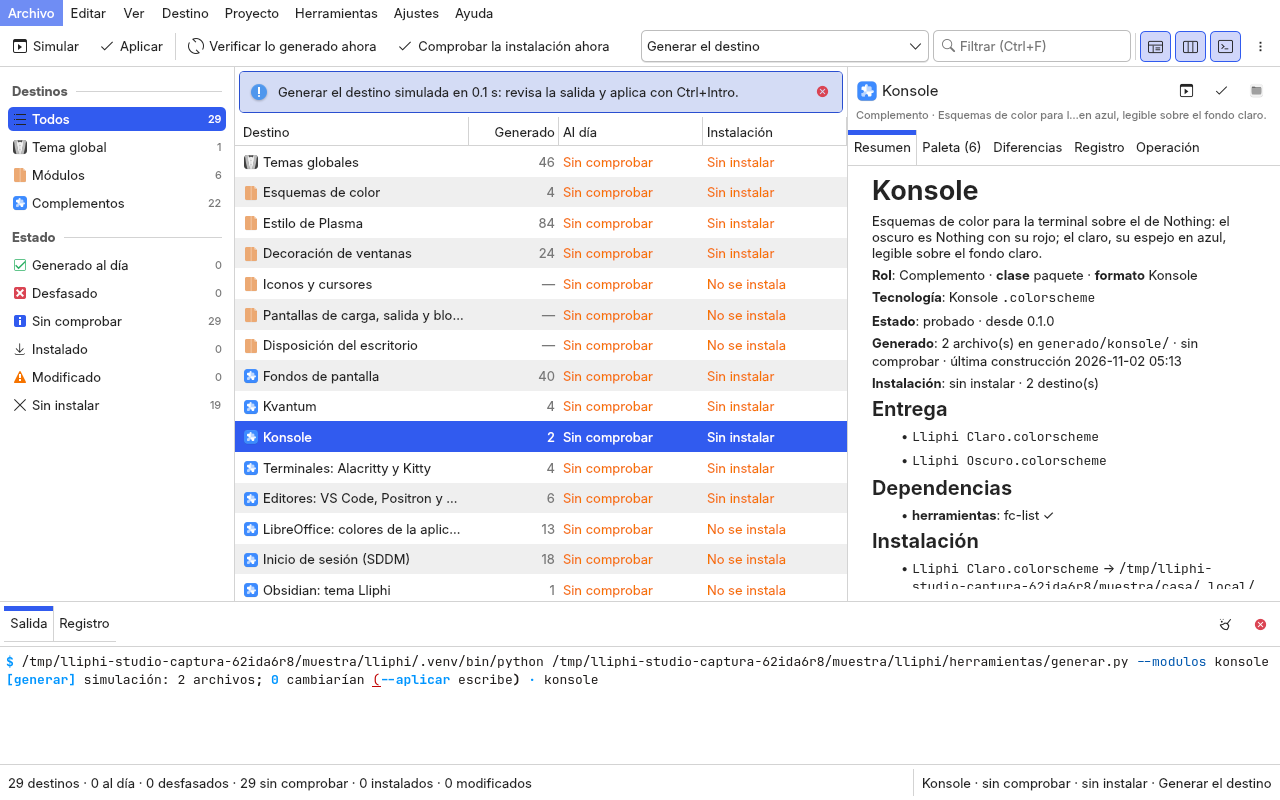
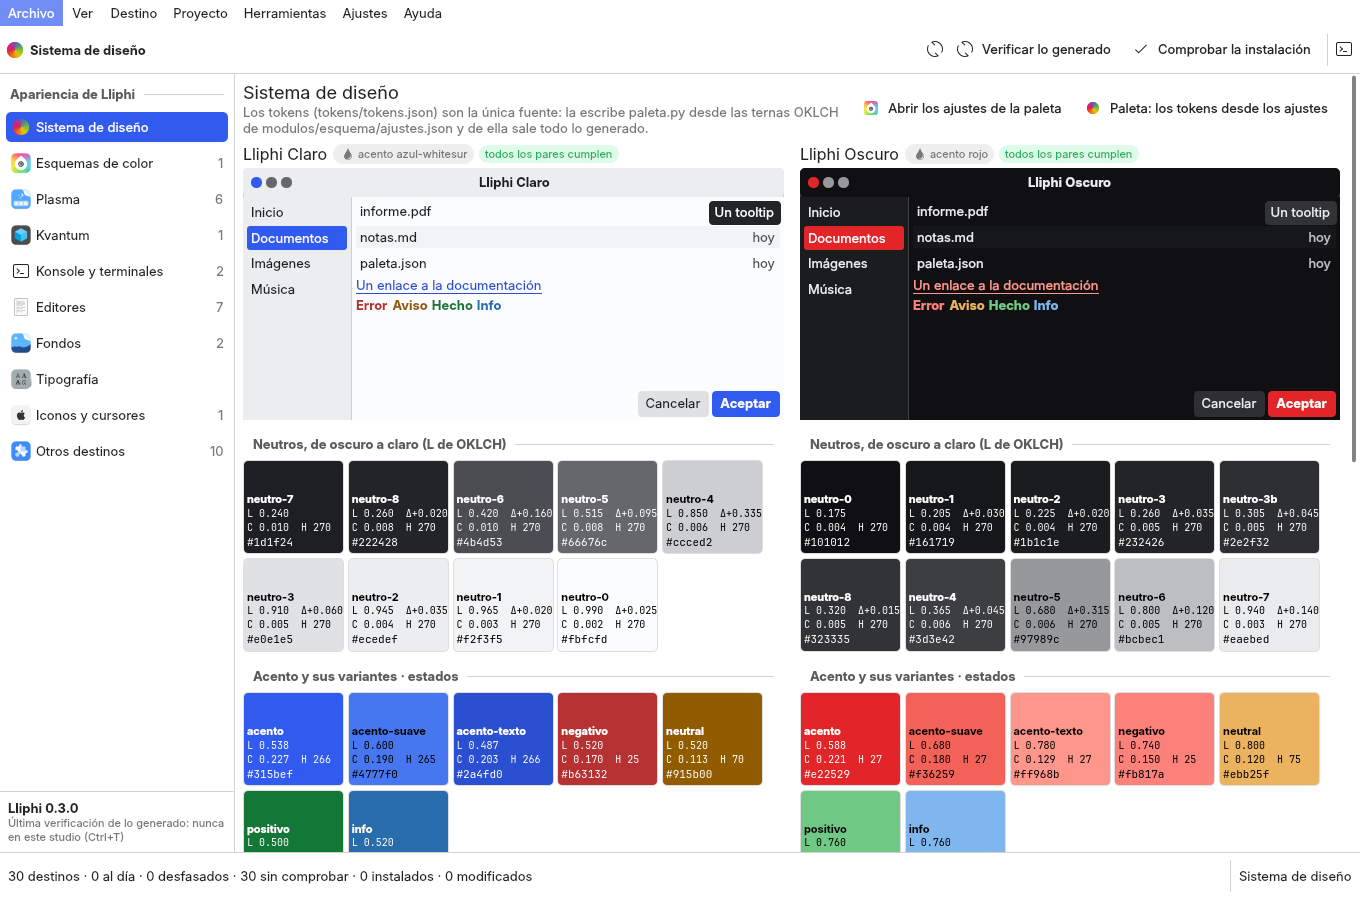
Lliphi Studio: capturas con la copia de muestra y ajustes de la interfaz
- capturar.py: --area, --destino, --par, --pasos (solo prepara el plan,
  nunca ejecuta), --paso e --instalar-en-la-copia (copia lo generado al
  HOME de la copia para ver «igual» y una diferencia).
- seis capturas en docs/figuras/ (sistema de diseño en oscuro y claro,
  Konsole con lo instalado frente a lo generado, los seis pasos de
  instalar la decoración, los fondos, la paleta de órdenes); las de la
  2.0, en docs/figuras/antes/.
- VistaDiferencia crece aunque solo tenga una nota; los archivos de un
  destino, en una columna sin desplazamiento propio; etiquetas de ancho
  fijo sin estirarse; las muestras con L, C, H y ΔL legibles; la paleta
  de órdenes sin los filtros de la tabla de la 2.0.

diff --git a/studio/lliphi_app/qml/componentes/PaginaArea.qml b/studio/lliphi_app/qml/componentes/PaginaArea.qml
@@ -17,6 +17,7 @@ ColumnLayout {
     readonly property var cuenta: centro.cuentaPares
 
     spacing: 0
+    clip: true
 
     RowLayout {
         Layout.fillWidth: true
@@ -60,6 +61,12 @@ ColumnLayout {
             boundsBehavior: Flickable.StopAtBounds
             QQC2.ScrollBar.vertical: QQC2.ScrollBar {}
             Accessible.name: "Destinos de " + (raiz.area.titulo || "")
+            function mostrarElegido() {
+                const i = raiz.centro.tarjetas.findIndex(x => x.id === raiz.centro.destino)
+                if (i >= 0) positionViewAtIndex(i, ListView.Contain)
+            }
+            onCountChanged: Qt.callLater(mostrarElegido)
+            Connections { target: raiz.centro; function onDestinoCambiado() { Qt.callLater(lista.mostrarElegido) } }
             delegate: TarjetaDestino {
                 required property var modelData
                 width: ListView.view.width - Kirigami.Units.smallSpacing * 2
@@ -86,46 +93,50 @@ ColumnLayout {
                 text: raiz.centro.destino === "" ? "Elija un destino" : "Este destino no instala archivos propios"
                 explanation: raiz.centro.destino === "" ? "" : "Es un componente del tema global, un tema de terceros (instalar.py dependencias) o se instala con pkexec desde la terminal."
             }
-            ListView {
+            QQC2.ScrollView {                                  // pocos archivos por destino: una columna, sin el desplazamiento propio de ListView
                 id: pares
                 Layout.fillWidth: true
-                Layout.preferredHeight: Math.min(contentHeight, Kirigami.Units.gridUnit * 9)
+                Layout.preferredHeight: Math.min(columnaPares.implicitHeight, Kirigami.Units.gridUnit * 9)
                 visible: raiz.centro.pares.length > 0
                 clip: true
-                model: raiz.centro.pares
-                currentIndex: raiz.centro.par
-                boundsBehavior: Flickable.StopAtBounds
-                QQC2.ScrollBar.vertical: QQC2.ScrollBar {}
+                contentWidth: availableWidth
                 Accessible.name: "Archivos instalados del destino"
-                delegate: QQC2.ItemDelegate {
-                    id: filaPar
-                    required property var modelData
-                    required property int index
-                    width: ListView.view.width
-                    highlighted: ListView.isCurrentItem
-                    onClicked: raiz.centro.fijarPar(index)
-                    Accessible.name: modelData.destinoCorto + ": " + modelData.texto
-                    contentItem: RowLayout {
-                        spacing: Kirigami.Units.smallSpacing
-                        Kirigami.Icon {
-                            source: ({ igual: "checkmark", distinto: "document-edit", ajeno: "dialog-warning", falta: "list-add", sin_generar: "dialog-error" })[filaPar.modelData.estado] || "text-x-generic"
-                            implicitWidth: Kirigami.Units.iconSizes.small
-                            implicitHeight: implicitWidth
-                        }
-                        QQC2.Label {
-                            text: filaPar.modelData.destinoCorto
-                            elide: Text.ElideMiddle
-                            Layout.fillWidth: true
-                            font: Kirigami.Theme.fixedWidthFont
-                            color: filaPar.highlighted ? Kirigami.Theme.highlightedTextColor : Kirigami.Theme.textColor
-                        }
-                        EtiquetaEstado { texto: filaPar.modelData.texto; nivel: filaPar.modelData.nivel }
-                        QQC2.ToolButton {
-                            icon.name: "system-file-manager"
-                            onClicked: studio.espacio.abrirDolphin(filaPar.modelData.destino)
-                            Accessible.name: "Mostrar en Dolphin " + filaPar.modelData.destinoCorto
-                            QQC2.ToolTip.text: "Mostrar en Dolphin"
-                            QQC2.ToolTip.visible: hovered
+                Column {
+                    id: columnaPares
+                    width: pares.availableWidth
+                    Repeater {
+                        model: raiz.centro.pares
+                        delegate: QQC2.ItemDelegate {
+                            id: filaPar
+                            required property var modelData
+                            required property int index
+                            width: columnaPares.width
+                            highlighted: index === raiz.centro.par
+                            onClicked: raiz.centro.fijarPar(index)
+                            Accessible.name: modelData.destinoCorto + ": " + modelData.texto
+                            contentItem: RowLayout {
+                                spacing: Kirigami.Units.smallSpacing
+                                Kirigami.Icon {
+                                    source: ({ igual: "checkmark", distinto: "document-edit", ajeno: "dialog-warning", falta: "list-add", sin_generar: "dialog-error" })[filaPar.modelData.estado] || "text-x-generic"
+                                    implicitWidth: Kirigami.Units.iconSizes.small
+                                    implicitHeight: implicitWidth
+                                }
+                                QQC2.Label {
+                                    text: filaPar.modelData.destinoCorto
+                                    elide: Text.ElideMiddle
+                                    Layout.fillWidth: true
+                                    font: Kirigami.Theme.fixedWidthFont
+                                    color: filaPar.highlighted ? Kirigami.Theme.highlightedTextColor : Kirigami.Theme.textColor
+                                }
+                                EtiquetaEstado { texto: filaPar.modelData.texto; nivel: filaPar.modelData.nivel }
+                                QQC2.ToolButton {
+                                    icon.name: "system-file-manager"
+                                    onClicked: studio.espacio.abrirDolphin(filaPar.modelData.destino)
+                                    Accessible.name: "Mostrar en Dolphin " + filaPar.modelData.destinoCorto
+                                    QQC2.ToolTip.text: "Mostrar en Dolphin"
+                                    QQC2.ToolTip.visible: hovered
+                                }
+                            }
                         }
                     }
                 }

diff --git a/studio/lliphi_app/qml/componentes/PaginaDiseno.qml b/studio/lliphi_app/qml/componentes/PaginaDiseno.qml
@@ -137,7 +137,11 @@ QQC2.ScrollView {
                     QQC2.Label { text: modelData.frente + " sobre " + modelData.fondo; color: Kirigami.Theme.disabledTextColor; font: Kirigami.Theme.smallFont; elide: Text.ElideRight; Layout.fillWidth: true }
                 }
                 QQC2.Label { text: modelData.textoRazon; font: Kirigami.Theme.fixedWidthFont }
-                EtiquetaEstado { texto: modelData.veredicto; nivel: modelData.nivel; Layout.preferredWidth: Kirigami.Units.gridUnit * 6.5 }
+                Item {
+                    Layout.preferredWidth: Kirigami.Units.gridUnit * 8
+                    implicitHeight: veredicto.implicitHeight
+                    EtiquetaEstado { id: veredicto; texto: modelData.veredicto; nivel: modelData.nivel }
+                }
             }
         }
     }
@@ -146,8 +150,8 @@ QQC2.ScrollView {
     component Muestra: Rectangle {
         property var m: ({})
         property bool conPaso: false
-        width: Kirigami.Units.gridUnit * 5.4
-        height: Kirigami.Units.gridUnit * 5.4
+        width: Kirigami.Units.gridUnit * 5.6
+        height: Kirigami.Units.gridUnit * 5.2
         radius: Kirigami.Units.cornerRadius
         color: m.hex || "transparent"
         border.width: 1
@@ -159,8 +163,8 @@ QQC2.ScrollView {
             anchors.bottom: parent.bottom
             anchors.margins: Kirigami.Units.smallSpacing
             Text { text: m.nombre || ""; color: m.texto || "transparent"; font.bold: true; font.pixelSize: Kirigami.Units.gridUnit * 0.62 }
-            Text { text: m.l >= 0 ? "L " + m.l.toFixed(3) + "  C " + m.c.toFixed(3) : ""; color: m.texto || "transparent"; font.pixelSize: Kirigami.Units.gridUnit * 0.55; font.family: Kirigami.Theme.fixedWidthFont.family }
-            Text { text: m.l >= 0 ? "H " + m.h.toFixed(0) + (parent.parent.conPaso && m.paso ? "  ΔL " + (m.paso > 0 ? "+" : "") + m.paso.toFixed(3) : "") : ""; color: m.texto || "transparent"; font.pixelSize: Kirigami.Units.gridUnit * 0.55; font.family: Kirigami.Theme.fixedWidthFont.family }
+            Text { text: m.l >= 0 ? "L " + m.l.toFixed(3) + (parent.parent.conPaso && m.paso ? "  Δ" + (m.paso > 0 ? "+" : "") + m.paso.toFixed(3) : "") : ""; color: m.texto || "transparent"; font.pixelSize: Kirigami.Units.gridUnit * 0.55; font.family: Kirigami.Theme.fixedWidthFont.family }
+            Text { text: m.l >= 0 ? "C " + m.c.toFixed(3) + "  H " + m.h.toFixed(0) : ""; color: m.texto || "transparent"; font.pixelSize: Kirigami.Units.gridUnit * 0.55; font.family: Kirigami.Theme.fixedWidthFont.family }
             Text { text: m.hex || ""; color: m.texto || "transparent"; font.pixelSize: Kirigami.Units.gridUnit * 0.6; font.family: Kirigami.Theme.fixedWidthFont.family }
         }
     }

diff --git a/studio/lliphi_app/qml/componentes/PanelPasos.qml b/studio/lliphi_app/qml/componentes/PanelPasos.qml
@@ -80,7 +80,12 @@ ColumnLayout {
                 required property var modelData
                 width: ListView.view.width
                 spacing: Kirigami.Units.smallSpacing
-                EtiquetaEstado { texto: modelData.accion; nivel: modelData.nivel; Layout.leftMargin: Kirigami.Units.smallSpacing; Layout.preferredWidth: Kirigami.Units.gridUnit * 6 }
+                Item {
+                    Layout.leftMargin: Kirigami.Units.smallSpacing
+                    Layout.preferredWidth: Kirigami.Units.gridUnit * 6
+                    implicitHeight: accion.implicitHeight
+                    EtiquetaEstado { id: accion; texto: modelData.accion; nivel: modelData.nivel }
+                }
                 QQC2.Label { text: modelData.ruta; font: Kirigami.Theme.fixedWidthFont; elide: Text.ElideMiddle; Layout.fillWidth: true }
                 QQC2.Label { text: modelData.detalle; color: Kirigami.Theme.disabledTextColor; font: Kirigami.Theme.smallFont; elide: Text.ElideRight; Layout.maximumWidth: Kirigami.Units.gridUnit * 20 }
             }

diff --git a/studio/lliphi_app/qml/componentes/VistaDiferencia.qml b/studio/lliphi_app/qml/componentes/VistaDiferencia.qml
@@ -83,10 +83,15 @@ ColumnLayout {
             sourceComponent: tipo === "trozo" ? cTrozo : cLinea
         }
     }
+    Item {                                     // sin filas ni marcador (solo una nota), algo tiene que crecer: si no, el
+        Layout.fillHeight: true                // ColumnLayout no pasa de su alto implícito y el sobrante sale como huecos
+        visible: !lista.visible && !marcador.visible
+    }
     Kirigami.PlaceholderMessage {
+        id: marcador
         Layout.fillWidth: true
         Layout.fillHeight: true
-        visible: !raiz.hay || raiz.diferencia.vacia
+        visible: !raiz.hay || (raiz.diferencia.vacia && !(raiz.diferencia.notas || []).length)   // con una nota, basta la nota
         text: !raiz.hay ? raiz.mensajeVacio : raiz.diferencia.binario ? "Archivo binario: no se compara línea a línea" : "Nada que comparar"
         icon.name: raiz.hay && raiz.diferencia.binario ? "application-octet-stream" : "document-compare"
     }

diff --git a/studio/lliphi_app/qml/Main.qml b/studio/lliphi_app/qml/Main.qml
@@ -19,6 +19,7 @@ VentanaBase {
     readonly property var registro: studio.acciones
     property bool mostrarSalida: false
     property bool mostrarPasos: false
+    property alias pasoMostrado: panelPasos.paso
 
     title: (centro.datosArea.titulo || "Lliphi") + " — Lliphi Studio"
     width: 1360
@@ -88,12 +89,14 @@ VentanaBase {
             StackLayout {
                 Layout.fillWidth: true
                 Layout.fillHeight: true
+                clip: true
                 currentIndex: ventana.centro.area === "diseno" ? 0 : 1
                 PaginaDiseno {}
                 PaginaArea {}
             }
         }
         PanelPasos {
+            id: panelPasos
             visible: ventana.mostrarPasos && studio.escritura.hayPlan
             QQC2.SplitView.preferredHeight: Kirigami.Units.gridUnit * 14
             QQC2.SplitView.minimumHeight: Kirigami.Units.gridUnit * 8

diff --git a/studio/capturar.py b/studio/capturar.py
@@ -1,16 +1,16 @@
 #!/usr/bin/python3
 """studio/capturar.py — una captura de Lliphi Studio para la documentación sobre una COPIA del proyecto (`muestra.py`)
 en una carpeta temporal fuera de la carpeta de inicio, con HOME, configuración, caché, datos y estado temporales
-(ninguna ruta de la máquina en pantalla y nada instalado en la sesión real), el esquema de color que se pida, el
-destino, la pestaña de detalles y, si se pide, la paleta de órdenes.
+(ninguna ruta de la máquina en pantalla y nada instalado en la sesión real), el esquema de color que se pida, el área,
+el destino y, si se pide, el plan de los seis pasos o la paleta de órdenes.
 
-    /usr/bin/python3 studio/capturar.py docs/figuras/lliphi-studio-oscuro.png --esquema generado/esquema/LliphiOscuro.colors --destino esquema --verificar
-    /usr/bin/python3 studio/capturar.py docs/figuras/lliphi-studio-claro.png --esquema generado/esquema/LliphiClaro.colors --destino konsole --pestana 1
+    /usr/bin/python3 studio/capturar.py docs/figuras/lliphi-studio-oscuro.png --esquema generado/esquema/LliphiOscuro.colors --area diseno
+    /usr/bin/python3 studio/capturar.py docs/figuras/lliphi-studio-claro.png --esquema generado/esquema/LliphiClaro.colors --destino konsole --pasos instalar
     /usr/bin/python3 studio/capturar.py docs/figuras/lliphi-studio-paleta.png --esquema generado/esquema/LliphiOscuro.colors --paleta "instalar"
 
-Antes de capturar corre de verdad, sobre la copia, «Generar el destino» en simulación (F5) y, con `--verificar`,
-«Verificar lo generado» (unos segundos), para que la tabla enseñe los estados. Corre con el Python del sistema; las
-órdenes, con el `.venv` del proyecto (enlazado en la copia) si existe.
+Con `--verificar` corre de verdad, sobre la copia, «Verificar lo generado» (unos segundos), para que las tarjetas
+enseñen si lo generado está al día. Corre con el Python del sistema; las órdenes, con el `.venv` del proyecto (enlazado
+en la copia) si existe. `--pasos` solo PREPARA el plan (pasos 1–3): nunca ejecuta.
 """
 from __future__ import annotations
 
@@ -31,14 +31,16 @@ def main() -> int:
     parser = argparse.ArgumentParser(description="Captura de Lliphi Studio sobre una copia del proyecto")
     parser.add_argument("salida")
     parser.add_argument("--esquema", help="archivo .colors de KDE (relanza con XDG_CONFIG_HOME temporal)")
-    parser.add_argument("--destino", default="esquema", help="el destino elegido (id del módulo; vacío: ninguno)")
-    parser.add_argument("--rol", default="", help="la vista de la navegación (global · modulo · complemento; vacío: todos)")
-    parser.add_argument("--pestana", type=int, default=0, help="pestaña de detalles (0 Resumen · 1 Paleta · 2 Diferencias · 3 Registro · 4 Operación)")
+    parser.add_argument("--area", default="", help="el área de la barra lateral (diseno · esquemas · plasma · kvantum · konsole · editores · fondos · tipografia · iconos · otros)")
+    parser.add_argument("--destino", default="", help="el destino elegido (lleva a su área)")
+    parser.add_argument("--par", type=int, default=-1, help="el archivo del destino cuya diferencia se muestra")
+    parser.add_argument("--pasos", default="", help="prepara el plan de los seis pasos: instalar · generar · desinstalar (no ejecuta)")
+    parser.add_argument("--paso", type=int, default=0, help="el paso que se muestra (0 Plan · 1 Afectados · 2 Conflictos)")
+    parser.add_argument("--instalar-en-la-copia", default="", help="copia a mano al HOME de la copia lo generado de este destino (para ver «igual» y una diferencia)")
     parser.add_argument("--verificar", action="store_true", help="corre «Verificar lo generado» antes de capturar (unos segundos)")
-    parser.add_argument("--sin-correr", action="store_true", help="no corre nada antes de capturar")
     parser.add_argument("--paleta", default=None, help="abre la paleta de órdenes con este texto")
-    parser.add_argument("--ancho", type=int, default=1280)
-    parser.add_argument("--alto", type=int, default=800)
+    parser.add_argument("--ancho", type=int, default=1360)
+    parser.add_argument("--alto", type=int, default=900)
     args = parser.parse_args()
 
     if "LLIPHI_STUDIO_CAPTURA" not in os.environ:      # primera pasada: la copia, el entorno temporal (y esquema), y relanzar
@@ -77,46 +79,53 @@ def main() -> int:
 
     app = Aplicacion(aplicacion.APP_ID, aplicacion.NOMBRE, version=aplicacion.APP_VERSION, organizacion=aplicacion.ORG_NAME, nombre_ajustes=aplicacion.APP_NAME)
     piezas = aplicacion.construir(app, leer_instalacion=False)
-    espacio, destinos, operaciones, interfaz, tareas = (piezas[k] for k in ("espacio", "destinos", "operaciones", "interfaz", "tareas"))
+    destinos, operaciones, interfaz, tareas = (piezas[k] for k in ("destinos", "operaciones", "interfaz", "tareas"))
     destinos.leer_instalacion_ahora()
     if not app.cargar(aplicacion.QML_DIR / "Main.qml"):
         return 1
     raiz = app.motor.rootObjects()[0]
     raiz.setProperty("width", args.ancho)
     raiz.setProperty("height", args.alto)
-    pendientes: list[str] = []
+    centro, escritura = piezas["centro"], piezas["escritura"]
 
-    def correr_siguiente():
-        if tareas.activa:
-            QTimer.singleShot(150, correr_siguiente)
-            return
-        if pendientes:
-            operaciones.fijar(pendientes.pop(0))
-            operaciones.simular()
-            QTimer.singleShot(150, correr_siguiente)
-            return
-        QTimer.singleShot(300, listo)
+    def preparar_copia():
+        """Para ver «igual» y una diferencia: copia lo generado del destino al HOME de la copia y cambia una línea del primero."""
+        from lliphi_app.servicios import areas
+        for i, par in enumerate(areas.comparar(args.instalar_en_la_copia)):
+            o, d = Path(par["origen"]), Path(par["destino"])
+            d.parent.mkdir(parents=True, exist_ok=True)
+            shutil.copytree(o, d, dirs_exist_ok=True) if o.is_dir() else shutil.copy2(o, d)
+            if i == 0 and d.is_file():
+                lineas = d.read_text(encoding="utf-8").splitlines()
+                if len(lineas) > 4:
+                    lineas[3] = lineas[3] + "  # cambiado a mano"
+                d.write_text("\n".join(lineas) + "\n", encoding="utf-8")
 
     def empezar():
-        espacio.fijarRol(args.rol)
+        if args.instalar_en_la_copia:
+            preparar_copia()
+        if args.verificar:
+            operaciones.fijar("verificar")
+            operaciones.simular()
+        QTimer.singleShot(200, esperar)
+
+    def esperar():
+        if tareas.activa:
+            QTimer.singleShot(150, esperar)
+            return
+        if args.area:
+            centro.fijarArea(args.area)
         if args.destino:
-            destinos.irA(args.destino)
-        if not args.sin_correr:
-            if args.verificar:
-                pendientes.append("verificar")
-            if args.destino:
-                pendientes.append("generar")
-        correr_siguiente()
+            centro.irADestino(args.destino)
+            if args.par >= 0:
+                centro.fijarPar(args.par)
+        if args.pasos:
+            escritura.planificar(args.pasos, [args.destino] if args.destino and args.pasos != "desinstalar" else [])
+            interfaz.pedir.emit("pasos", {})
+        QTimer.singleShot(300, listo)
 
     def listo():
-        if args.destino:
-            operaciones.fijar("generar")
-        raiz.setProperty("mostrarDetalles", True)
-        raiz.setProperty("mostrarInferior", True)
-        inferior = raiz.property("inferior")
-        if inferior is not None:
-            inferior.setProperty("pestanaActual", 0)
-        QTimer.singleShot(500, lambda: interfaz.pedir.emit("pestana", {"indice": args.pestana}))
+        raiz.setProperty("pasoMostrado", args.paso)
         if args.paleta is not None:
             QTimer.singleShot(900, lambda: interfaz.pedir.emit("paleta", {"texto": args.paleta}))
         app.capturar(args.salida, espera_ms=2400)

diff --git a/studio/lliphi_app/aplicacion.py b/studio/lliphi_app/aplicacion.py
@@ -171,7 +171,6 @@ def construir(app: Aplicacion, cache: Path | None = None, leer_instalacion: bool
         ("Ay&uda", ["ayuda.manual", "ayuda.arquitectura", "app.acerca"]),
     ])
     acciones.definir_barra(["ver.releer", "proyecto.verificar", "|", "escr.generar", "escr.instalar", "|", "escr.ejecutar"])
-    acciones.anadir_fuente(espacio.entradas_paleta)
     acciones.anadir_fuente(lambda _t: [{"nombre": f"destino.{m.id}", "texto": f"Destino: {m.nombre}", "grupo": "Destinos", "icono": "preferences-desktop-theme-global",
                                         "ejecutar": lambda i=m.id: centro.irADestino(i)} for m in destinos._modulos.values()])
 
